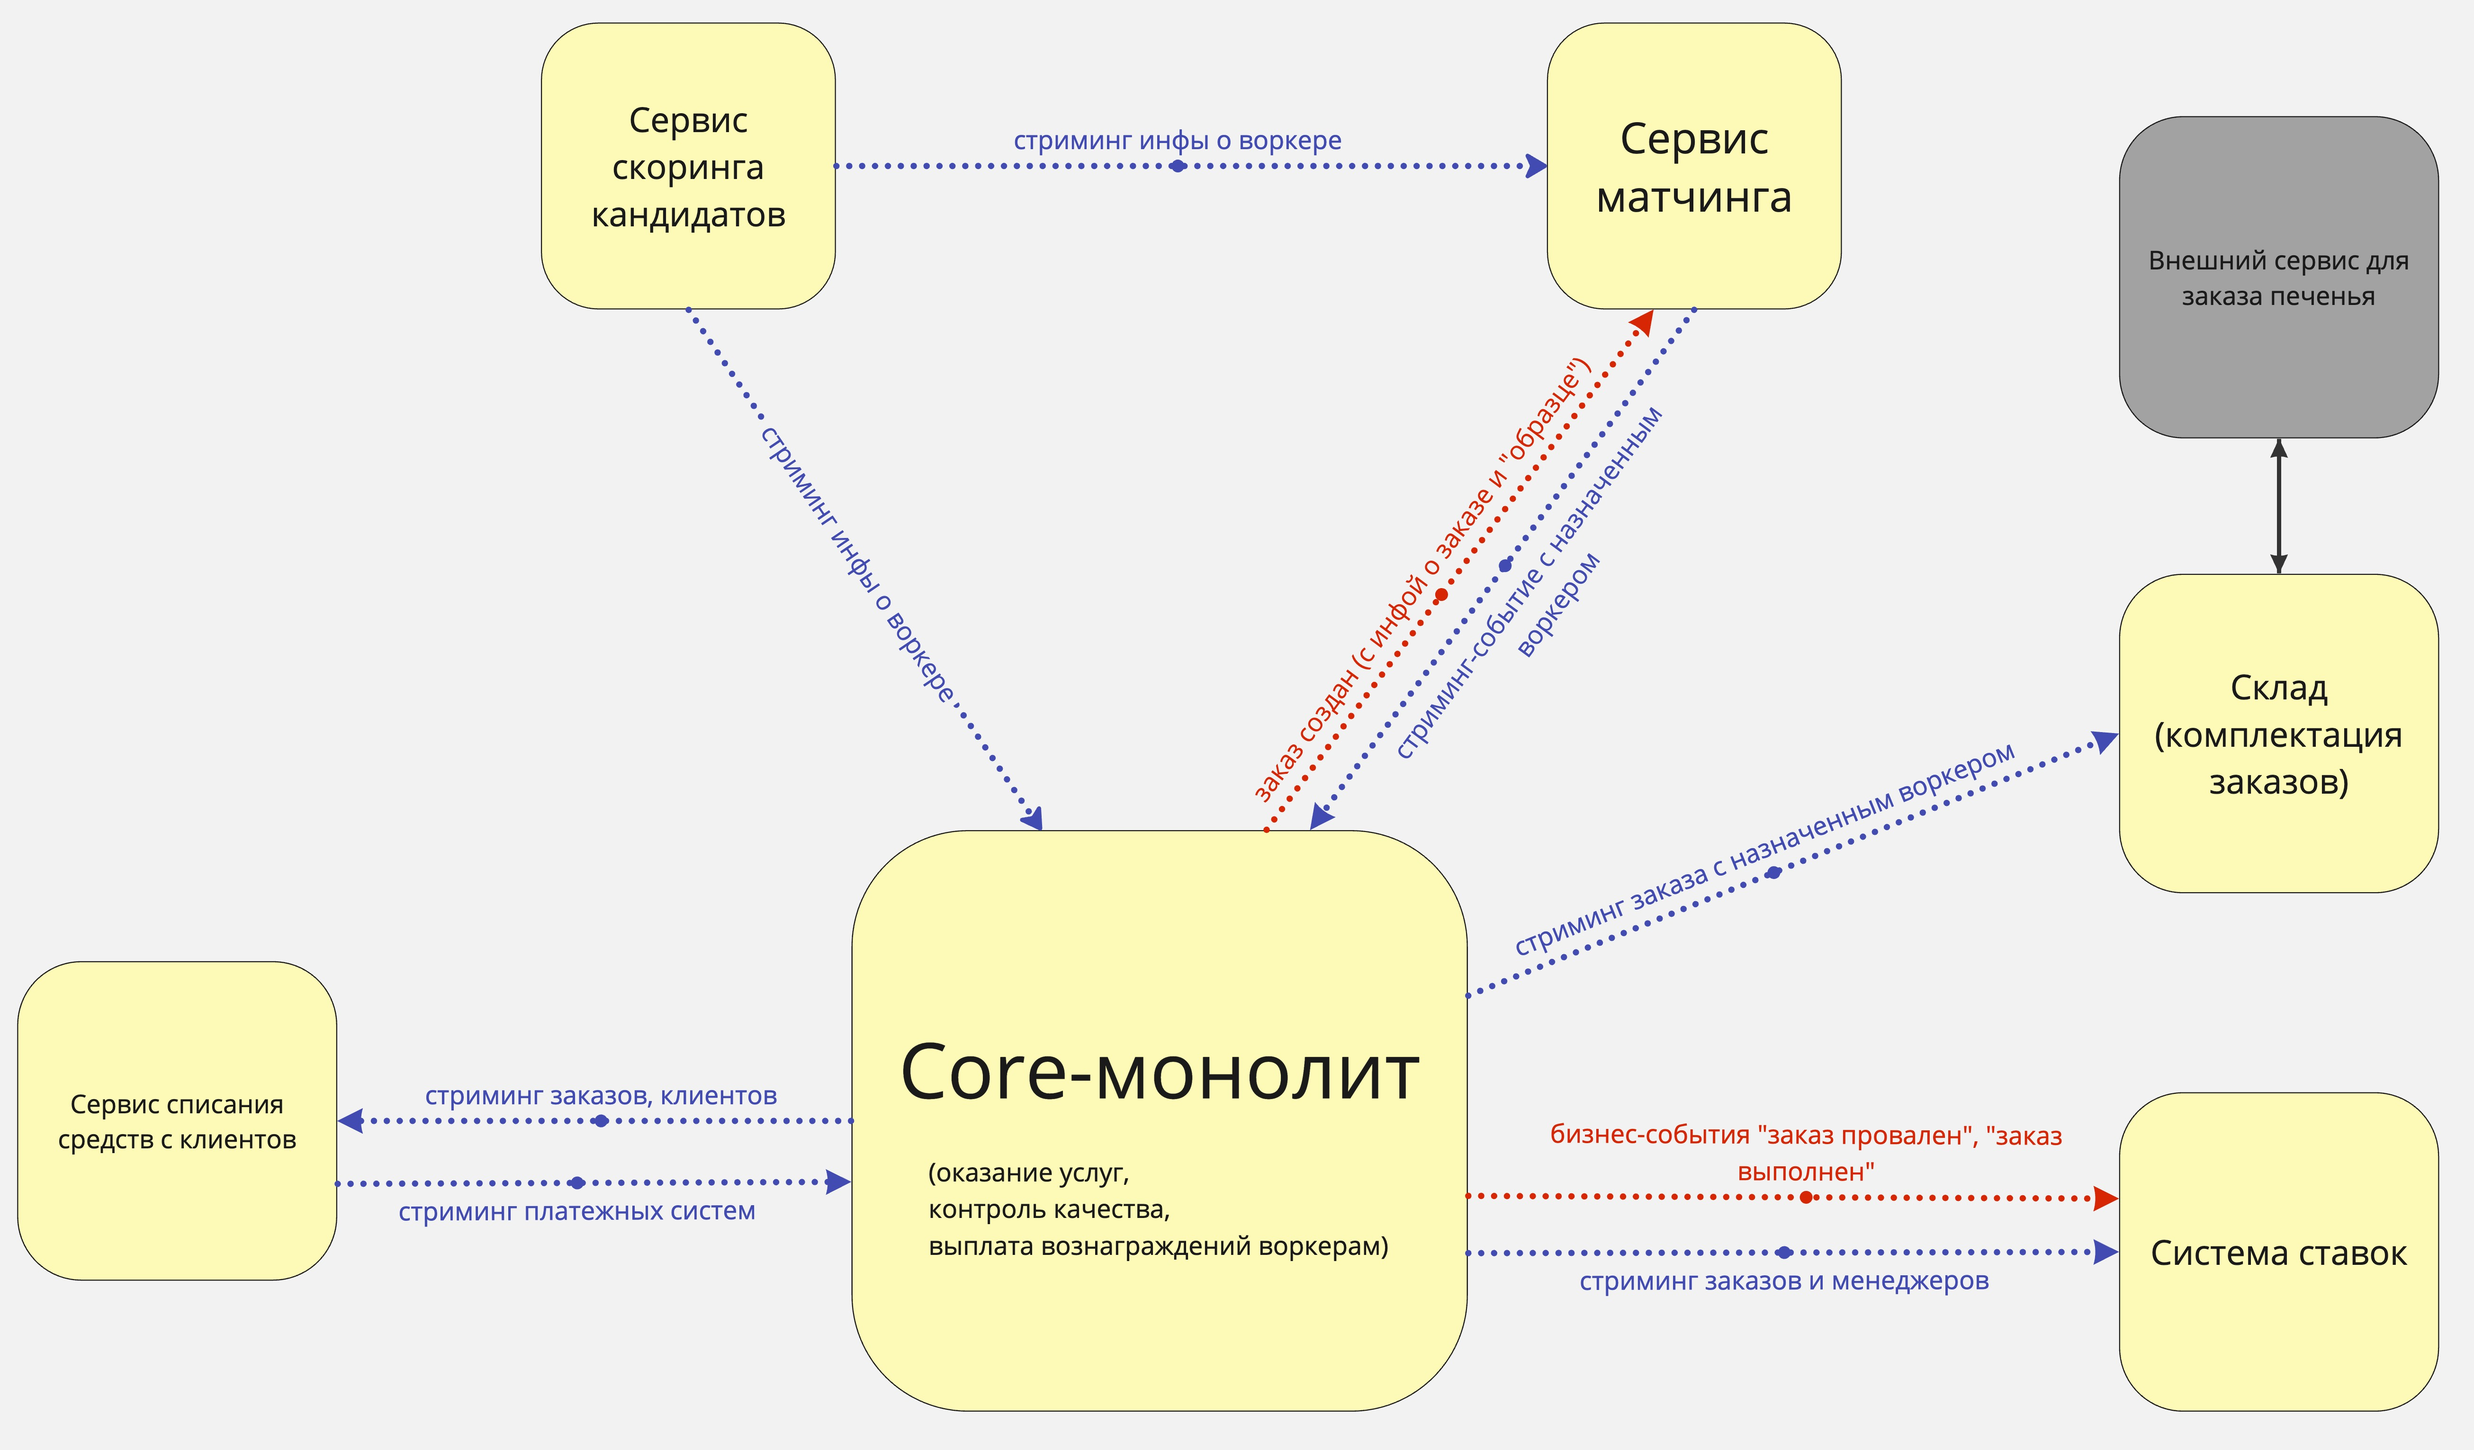
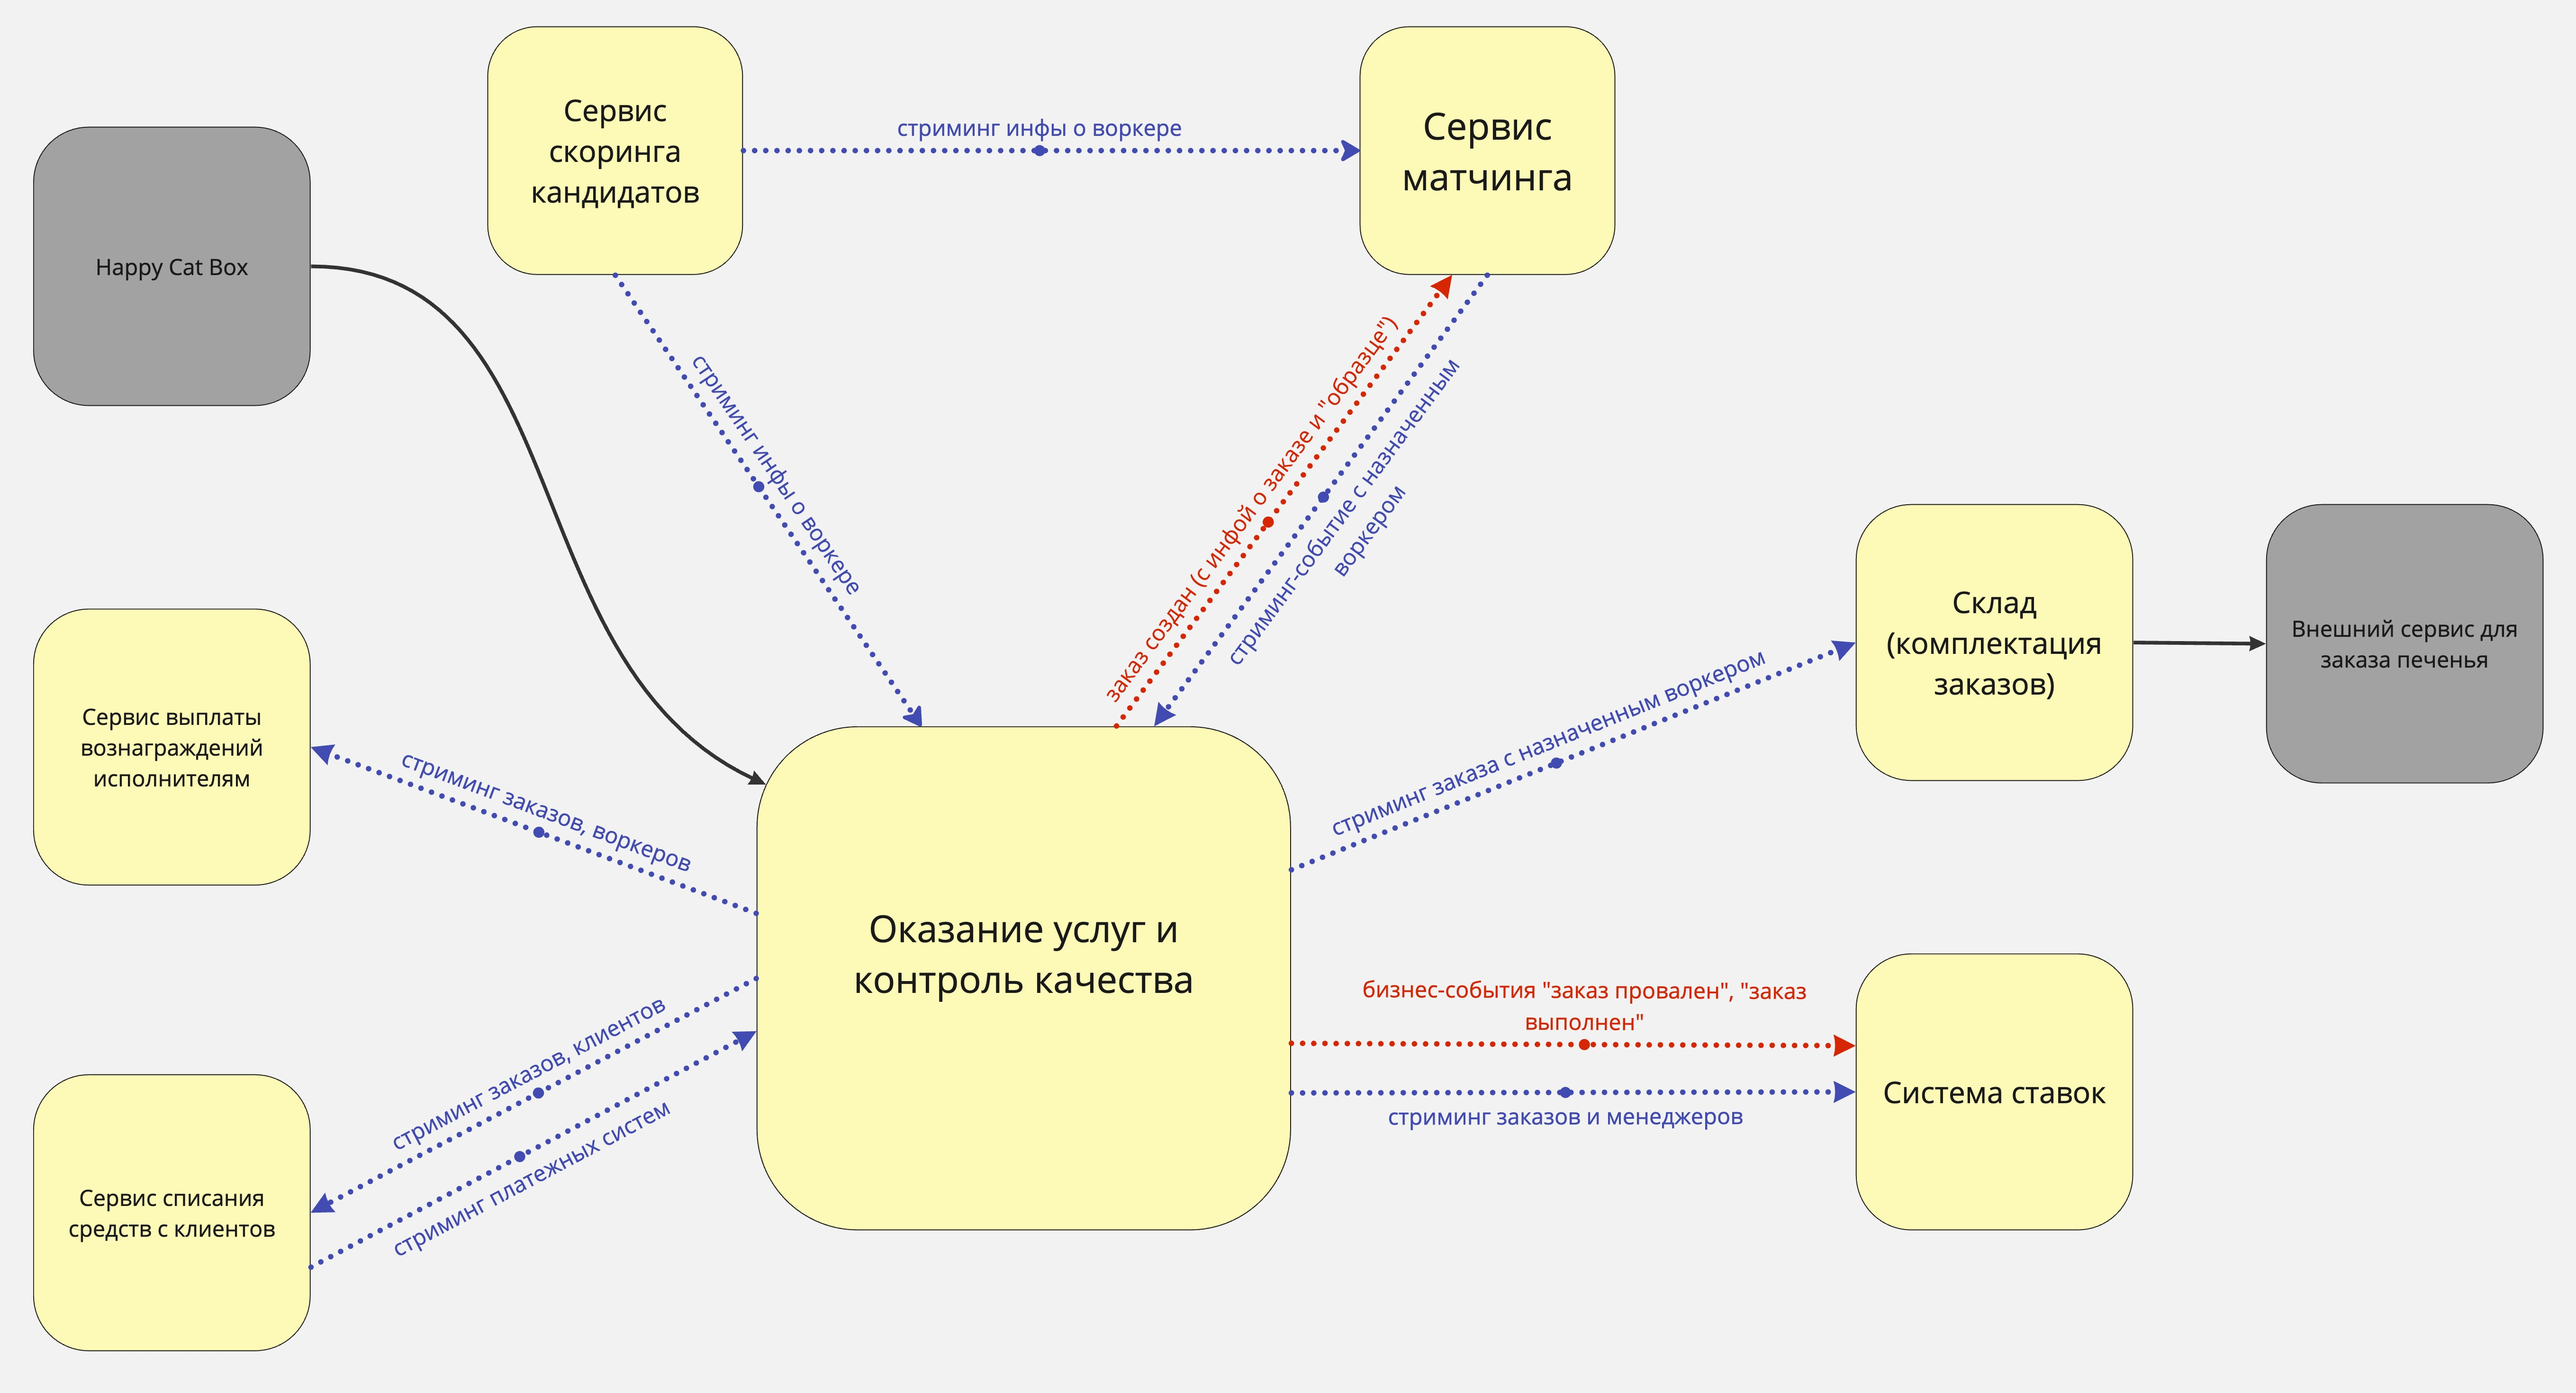
HW-3: Corrections after feedback

diff --git a/homework-3/README.md b/homework-3/README.md
@@ -97,11 +97,15 @@
 
 4. **Списание средств с клиентов**
    - тут есть требование постоянно добавлять новые способы списания денег, лучше иметь возможность деплоить отдельно;
+   - CatFinCompliance;
 
-5. **Комплектация заказов**
+5. **Выплата вознаграждений воркерам**
+   - CatFinCompliance;
+
+6. **Комплектация заказов**
    - вынесла по принципу отдельного домена со своей спецификой и отдельных людей, которые занимаются комплектацией заказов;
 
-6. **Заказ печенья**
+7. **Заказ печенья**
    - относится к generic-поддомену, можно использовать стороннее решение.
 
 Оставшиеся контексты можно объединить в один сервис (обозначим его Core-монолит), поскольку:
@@ -114,27 +118,29 @@
 
 ### Архитектурный стиль и БД сервисов
 
-| Сервис                      | Архитектурный стиль                                                        | БД             |
-|-----------------------------|----------------------------------------------------------------------------|----------------|
-| Скоринг                     | Layered monolith                                                           | Реляционная БД |
-| Матчинг                     | Pipeline                                                                   | Реляционная БД |
-| Списание средств с клиентов | Microkernel<br>(работа с платежными шлюзами может быть вынесена в плагины) | Реляционная БД |
-| Комплектация заказов        | Layered monolith                                                           | Реляционная БД |
-| Core-монолит                | Modular monolith                                                           | Реляционная БД |
+| Сервис                             | Архитектурный стиль | БД             |
+|------------------------------------|---------------------|----------------|
+| Скоринг                            | Microkernel         | Реляционная БД |
+| Матчинг                            | Pipeline            | Реляционная БД |
+| Списание средств с клиентов        | Layered monolith    | Реляционная БД |
+| Выплата вознаграждений воркерам    | Layered monolith    | Реляционная БД |
+| Комплектация заказов               | Layered monolith    | Реляционная БД |
+| Оказание услуг и контроль качества | Modular monolith    | Реляционная БД |
 
-Каждый из сервисов имеет собственную реляционную БД из-за требования CatFinCompliance на уровне всей системы.
+Каждый из сервисов имеет собственную реляционную БД.
 
 ### Коммуникации
 
 Сервис **Скоринга** после апрува кандидата должен отправлять стриминговое событие сразу в два сервиса:
-в **Матчинг** и в **Core-монолит**. Можно делать два синхронных запроса, но поскольку нам не нужно ничего получать в ответ, 
-мы можем выбрать асинхронную event-driven коммуникацию: генерировать событие для произвольного кол-ва консьюмеров.
+в **Матчинг** и в **Оказание услуг**. Можно делать два синхронных запроса, но поскольку нам не нужно ничего получать
+в ответ, мы можем выбрать асинхронную event-driven коммуникацию: генерировать событие для произвольного кол-ва консьюмеров.
 
-**Core-монолит** должен вызывать сервис **Матчинга** сразу после создания заказа. Обращение к матчеру имеет смысл сделать 
+**Оказание услуг** должен вызывать сервис **Матчинга** сразу после создания заказа. Обращение к матчеру имеет смысл сделать 
 асинхронным: из-за сложности алгоритма и анализа исторических данных матчинг может занимать значительное время,
 не стоит держать коннекшн. После окончания матчинга сервис присылает обратно стриминговое событие с выбранным воркером.
 
-Для консистентности event-driven коммуникацию распространила на все взаимодействия Core-монолита с другими сервисами.
+Для консистентности event-driven коммуникацию распространила на все взаимодействия сервиса **Оказание услуг**
+с другими сервисами.
 
 Ниже коммуникации между сервисами показаны на схеме: 
  - красные стрелки — бизнес-события,
@@ -151,7 +157,7 @@
 | Скоринг                     | - Проверка частоты релизов (не реже раза в неделю);<br>- Нагрузочные тесты;                                                                           |
 | Матчинг                     | - Теоретически можно придумать, как добавить обратную связь для определения качества алгоритма матчинга через опрос клиентов и воркеров;              |
 | Списание средств с клиентов | - Скорость прикручивания нового платежного шлюза;                                                                                                     |
-| Core-монолит                | - FF для контроля кросс-контекстных вызовов (допустим, у нас проект на Ruby :))                                                                       |
+| Оказание услуг              | - FF для контроля кросс-контекстных вызовов (допустим, у нас проект на Ruby :))                                                                       |
 
 ## ADR: скоринг в виде отдельного сервиса
 ### Status
@@ -180,7 +186,7 @@ Proposed
   - в будущем скоринг планируется продавать как продукт;
   - потенциально самая нагруженная часть системы.
 
-Для реализации сервиса преложен Layered архитектурный стиль.
+Для реализации сервиса преложен Microkernel архитектурный стиль.
 
 Сервис имеет собственную реляционную БД в связи с CatFinCompliance.
 
